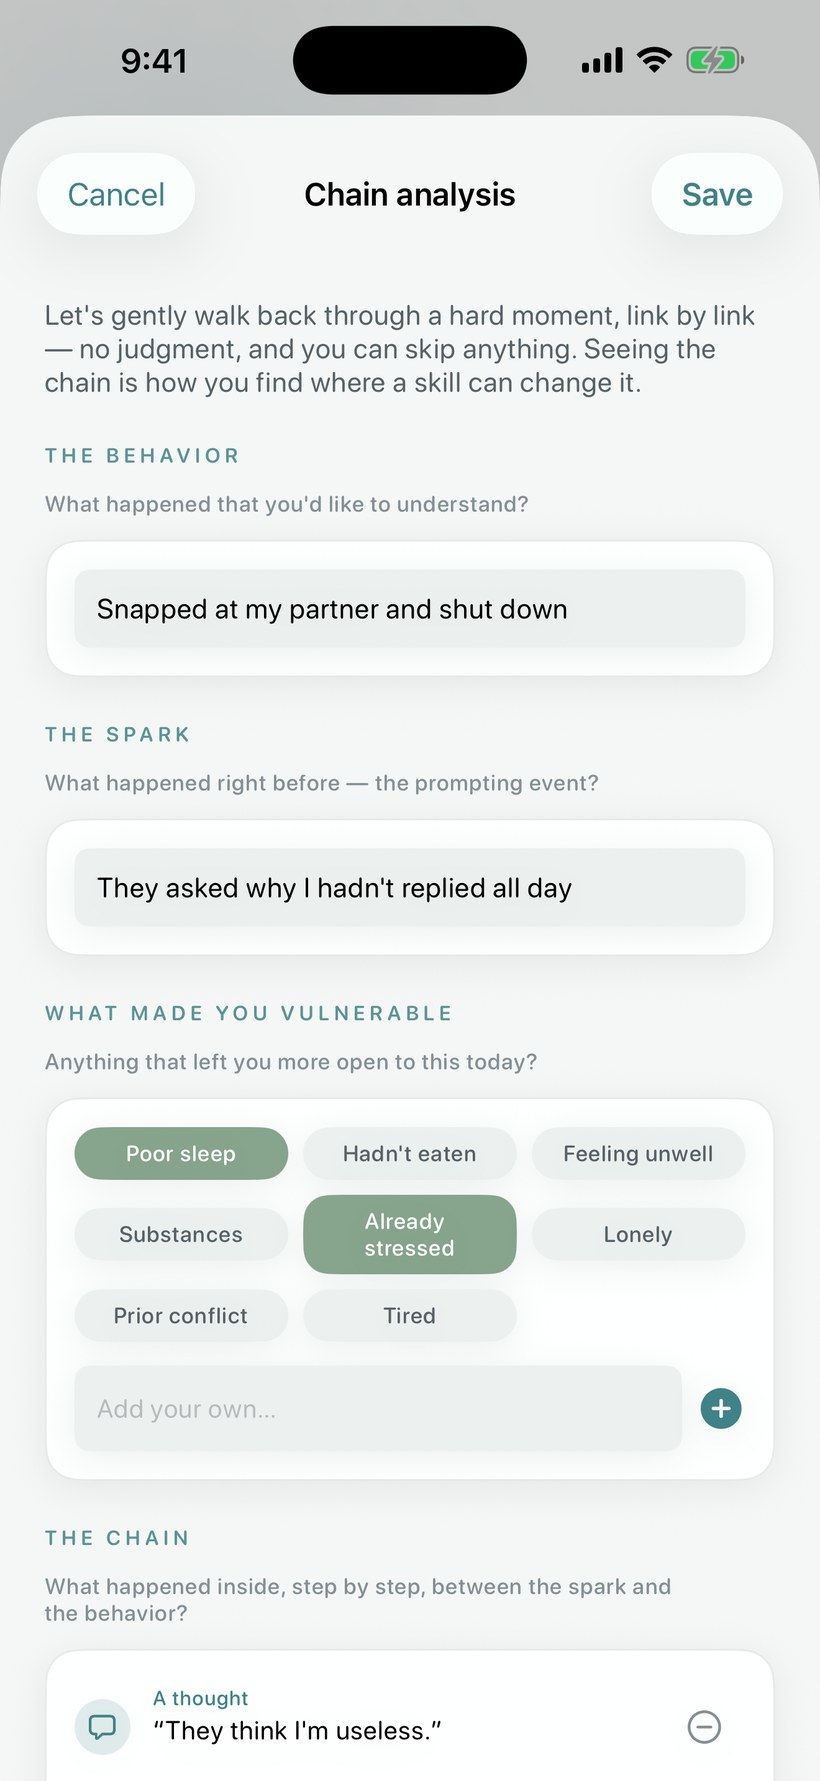
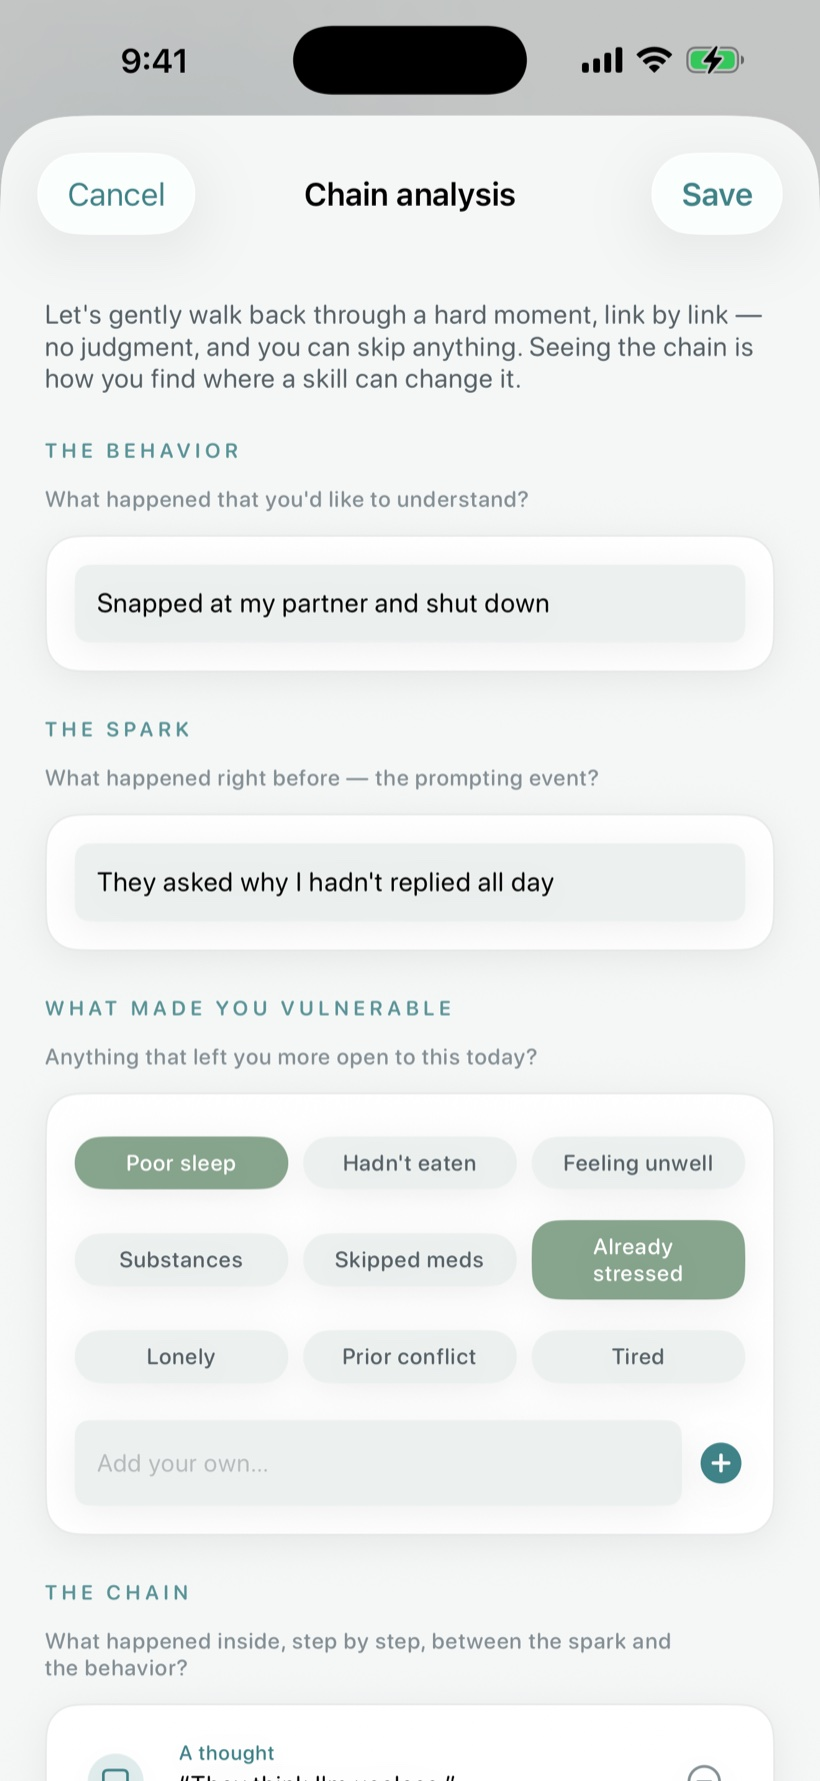
Refresh chain-analysis shot: balanced 3x3 vulnerability grid
Recapture 10-chain.jpg after adding a 9th vulnerability chip
("Skipped meds") so the "What made you vulnerable" grid fills a
tidy 3x3 instead of leaving a gap on the last row.

diff --git a/index.html b/index.html
@@ -698,7 +698,7 @@
           <div class="screen-label"><strong>Diary</strong>A one-minute card</div>
         </div>
         <div class="screen-card">
-          <div class="screen-frame"><img src="screenshots/10-chain.jpg?v=20260624r" alt="Quietoak chain analysis — gently tracing a hard moment link by link to find where a skill fits" loading="lazy"></div>
+          <div class="screen-frame"><img src="screenshots/10-chain.jpg?v=20260626d" alt="Quietoak chain analysis — gently tracing a hard moment link by link to find where a skill fits" loading="lazy"></div>
           <div class="screen-label"><strong>Chain analysis</strong>Trace a hard moment</div>
         </div>
         <div class="screen-card">